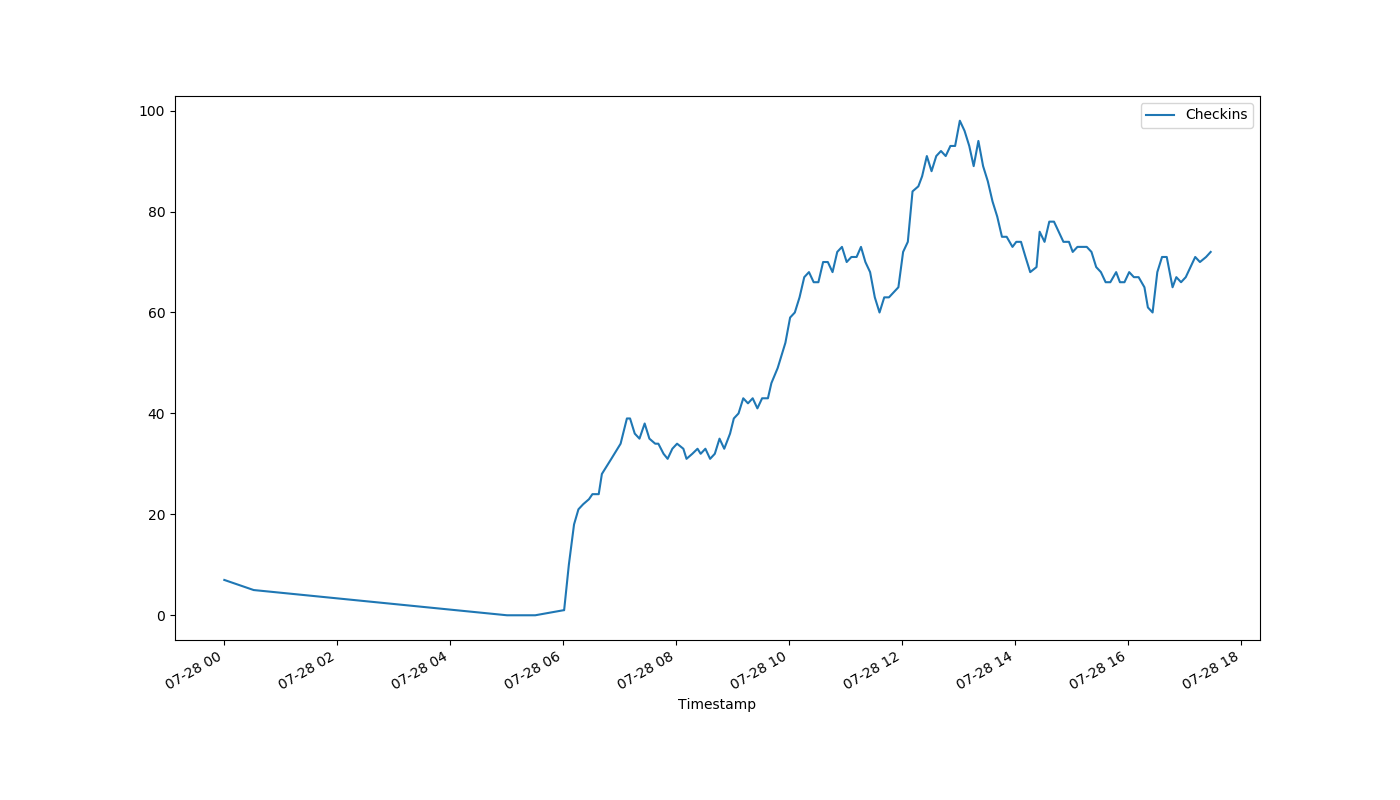
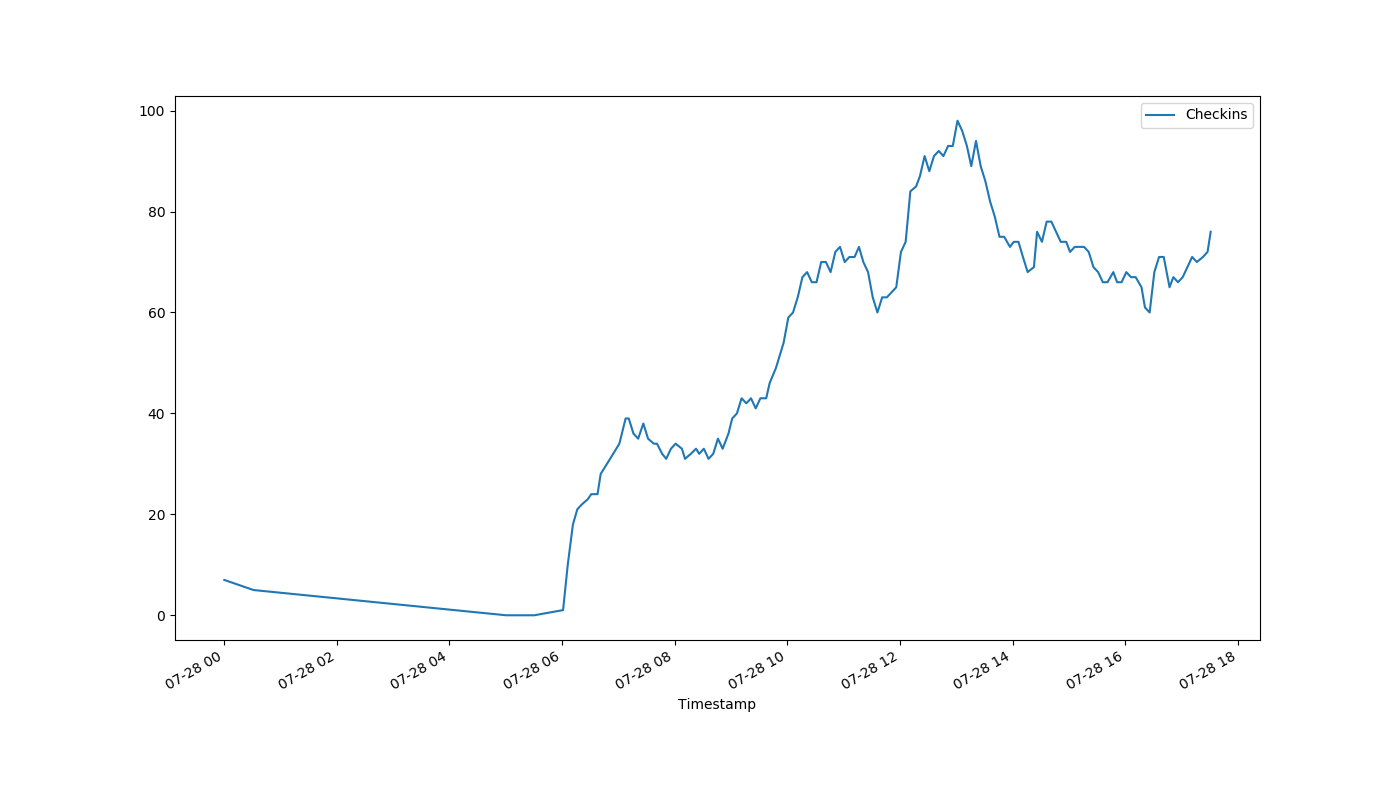
auto-Jul-28-17:31:23

diff --git a/index.html b/index.html
@@ -1,1 +1,1 @@
-<!DOCTYPE html><html><head><meta http-equiv="refresh" content="30"><link rel='stylesheet' href='holmcurrent.css'></head><body><p id='count'>72</p><div id='graph-wrap'><img id='graph' src='holmgraph-Jul-28.png'></div><p id='updated'>Last updated 17:28:14 / 17:27:42</p></body></html>
+<!DOCTYPE html><html><head><meta http-equiv="refresh" content="30"><link rel='stylesheet' href='holmcurrent.css'></head><body><p id='count'>76</p><div id='graph-wrap'><img id='graph' src='holmgraph-Jul-28.png'></div><p id='updated'>Last updated 17:31:14 / 17:31:02</p></body></html>
